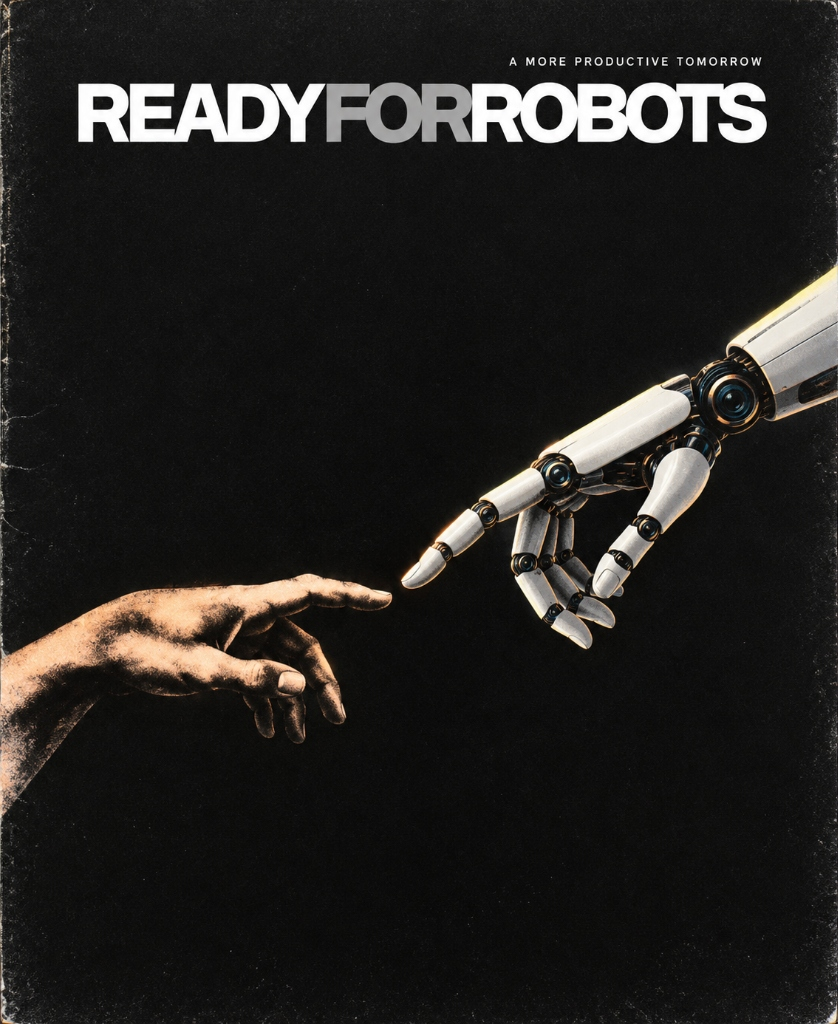
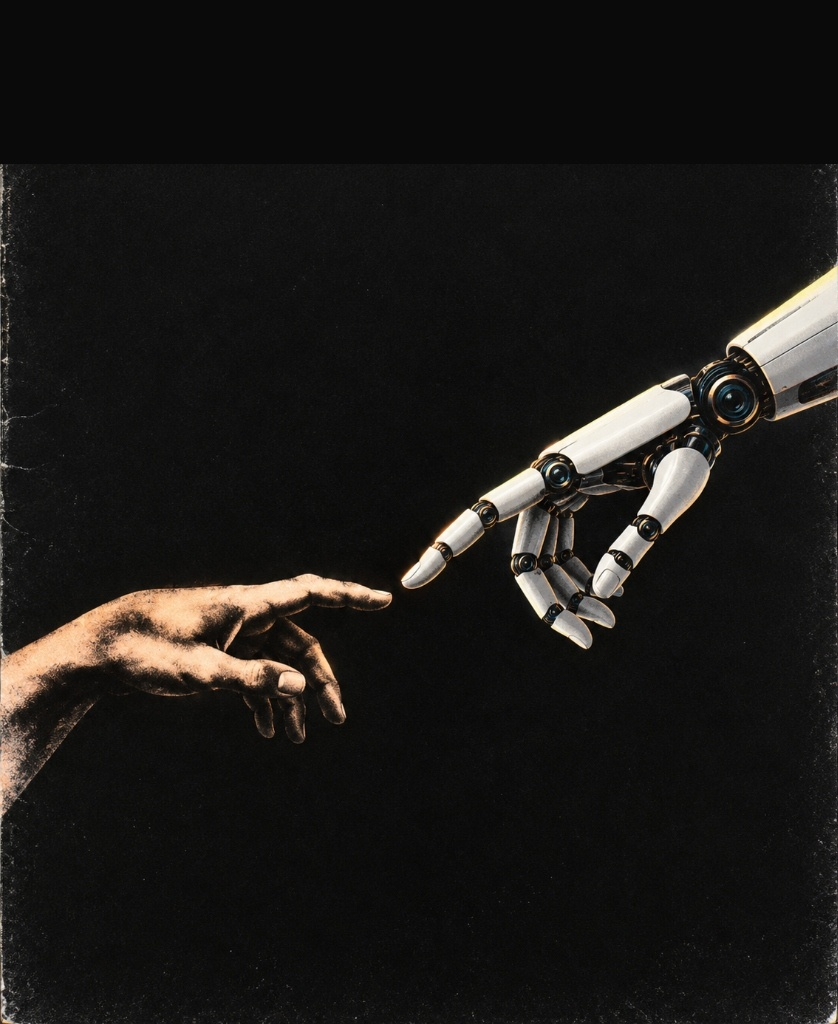
Lighten URL submit CTA box stroke weight, remove conditional job card badge, and crop header text from background graphic

Changed region(s): [[0.0931, 0.0312, 0.9308, 0.1562], [0.9618, 0.0, 1.0, 0.1562], [0.0, 0.0, 0.0621, 0.1562]]

diff --git a/readyforrobots-new/client/src/components/JobsLanding.tsx b/readyforrobots-new/client/src/components/JobsLanding.tsx
@@ -109,7 +109,6 @@ function AccentLabel({ parts }: { parts: LandingAccentPart[] }) {
 
 function BriefJobCard({ job }: { job: LandingBriefJob }) {
   const isConditional = job.status === "CONDITIONAL";
-  const displayStatus = isConditional ? "Needs verification" : job.status;
 
   return (
     <article className="rfr-landing-brief-job">
@@ -117,11 +116,13 @@ function BriefJobCard({ job }: { job: LandingBriefJob }) {
         <span className="rfr-landing-brief-id">{job.id}</span>
         <h3 className="rfr-landing-brief-employer">{job.employer}</h3>
         <span className="rfr-landing-brief-sector">{job.workplace || job.sector}</span>
-        <span
-          className={`rfr-landing-brief-status rfr-landing-brief-status--${job.status.toLowerCase()}`}
-        >
-          {displayStatus}
-        </span>
+        {!isConditional && (
+          <span
+            className={`rfr-landing-brief-status rfr-landing-brief-status--${job.status.toLowerCase()}`}
+          >
+            {job.status}
+          </span>
+        )}
       </div>
       <p className="rfr-landing-brief-field-label">{LANDING_BRIEF_JOB_FIELD}</p>
       <p className="rfr-landing-brief-jobs">{job.work}</p>

diff --git a/readyforrobots-new/client/src/index.css b/readyforrobots-new/client/src/index.css
@@ -2979,10 +2979,10 @@
   align-items: center;
   gap: 0.6rem;
   background: #11162b;
-  border: 2px solid #8b5cf6;
+  border: 1px solid rgba(139, 92, 246, 0.45);
   border-radius: 8px;
   padding: 0.4rem 0.5rem;
-  box-shadow: 0 0 20px rgba(139, 92, 246, 0.25);
+  box-shadow: 0 0 14px rgba(139, 92, 246, 0.15);
   transition: border-color 0.15s ease, box-shadow 0.15s ease;
 }
 
